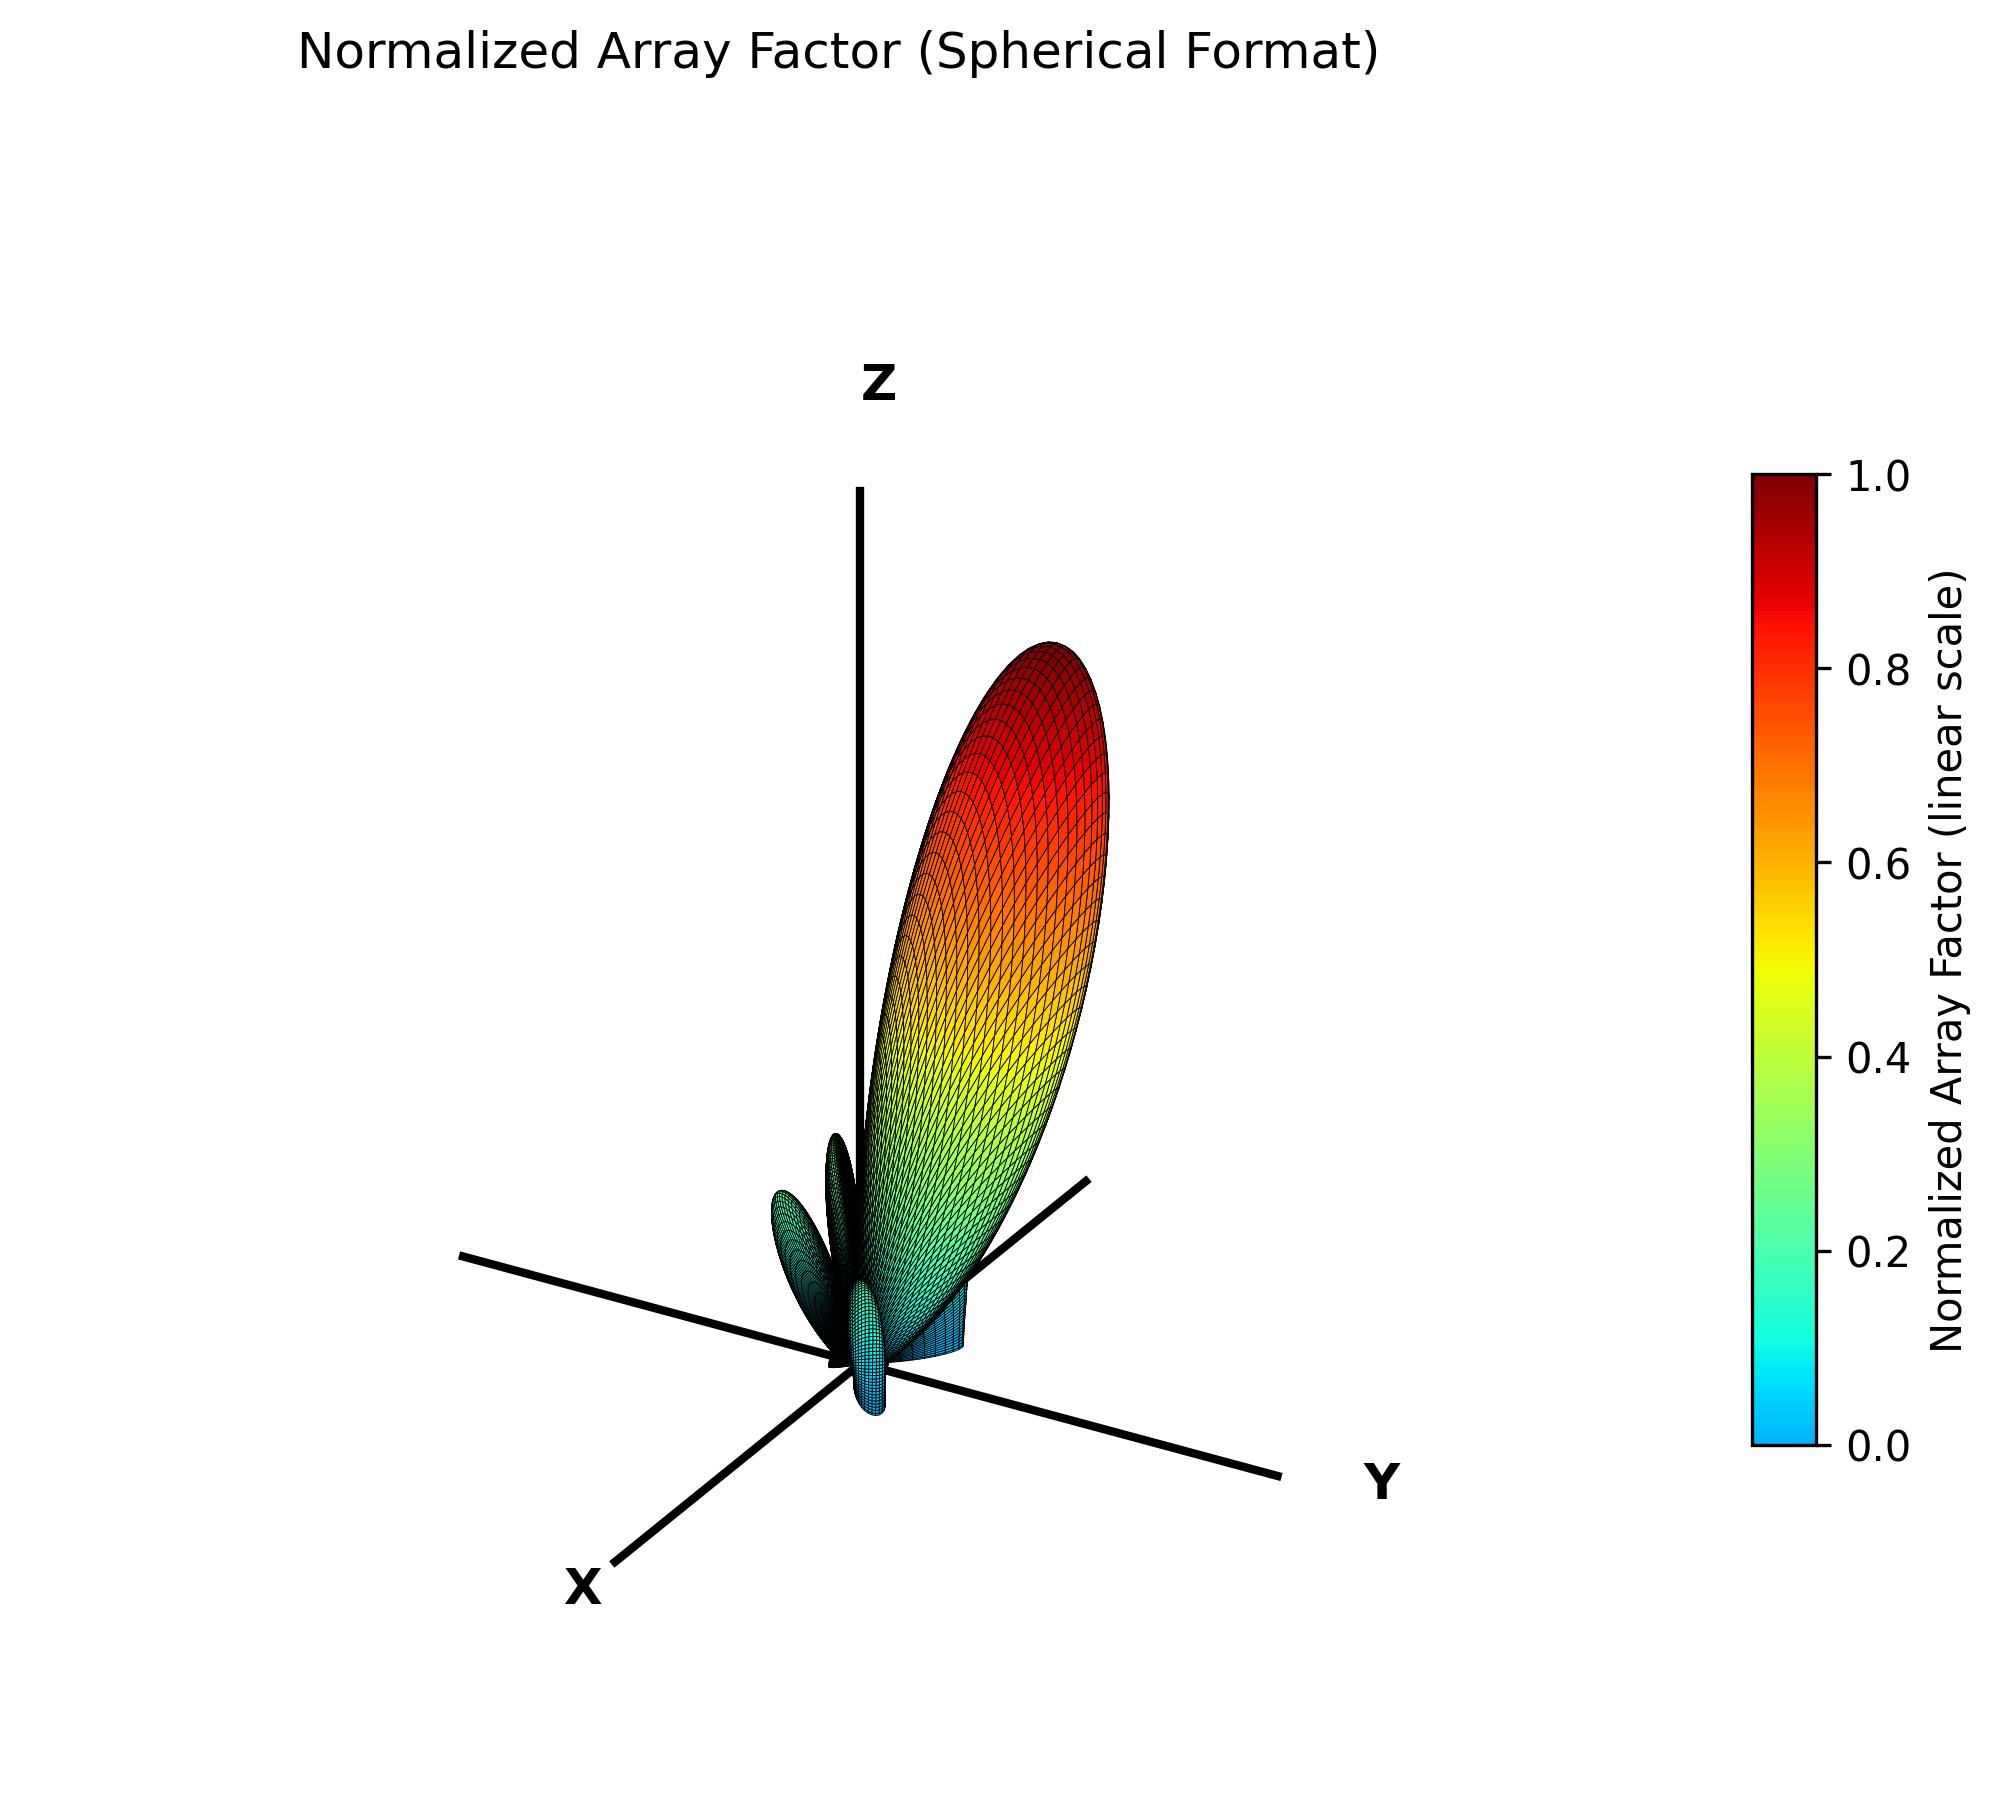
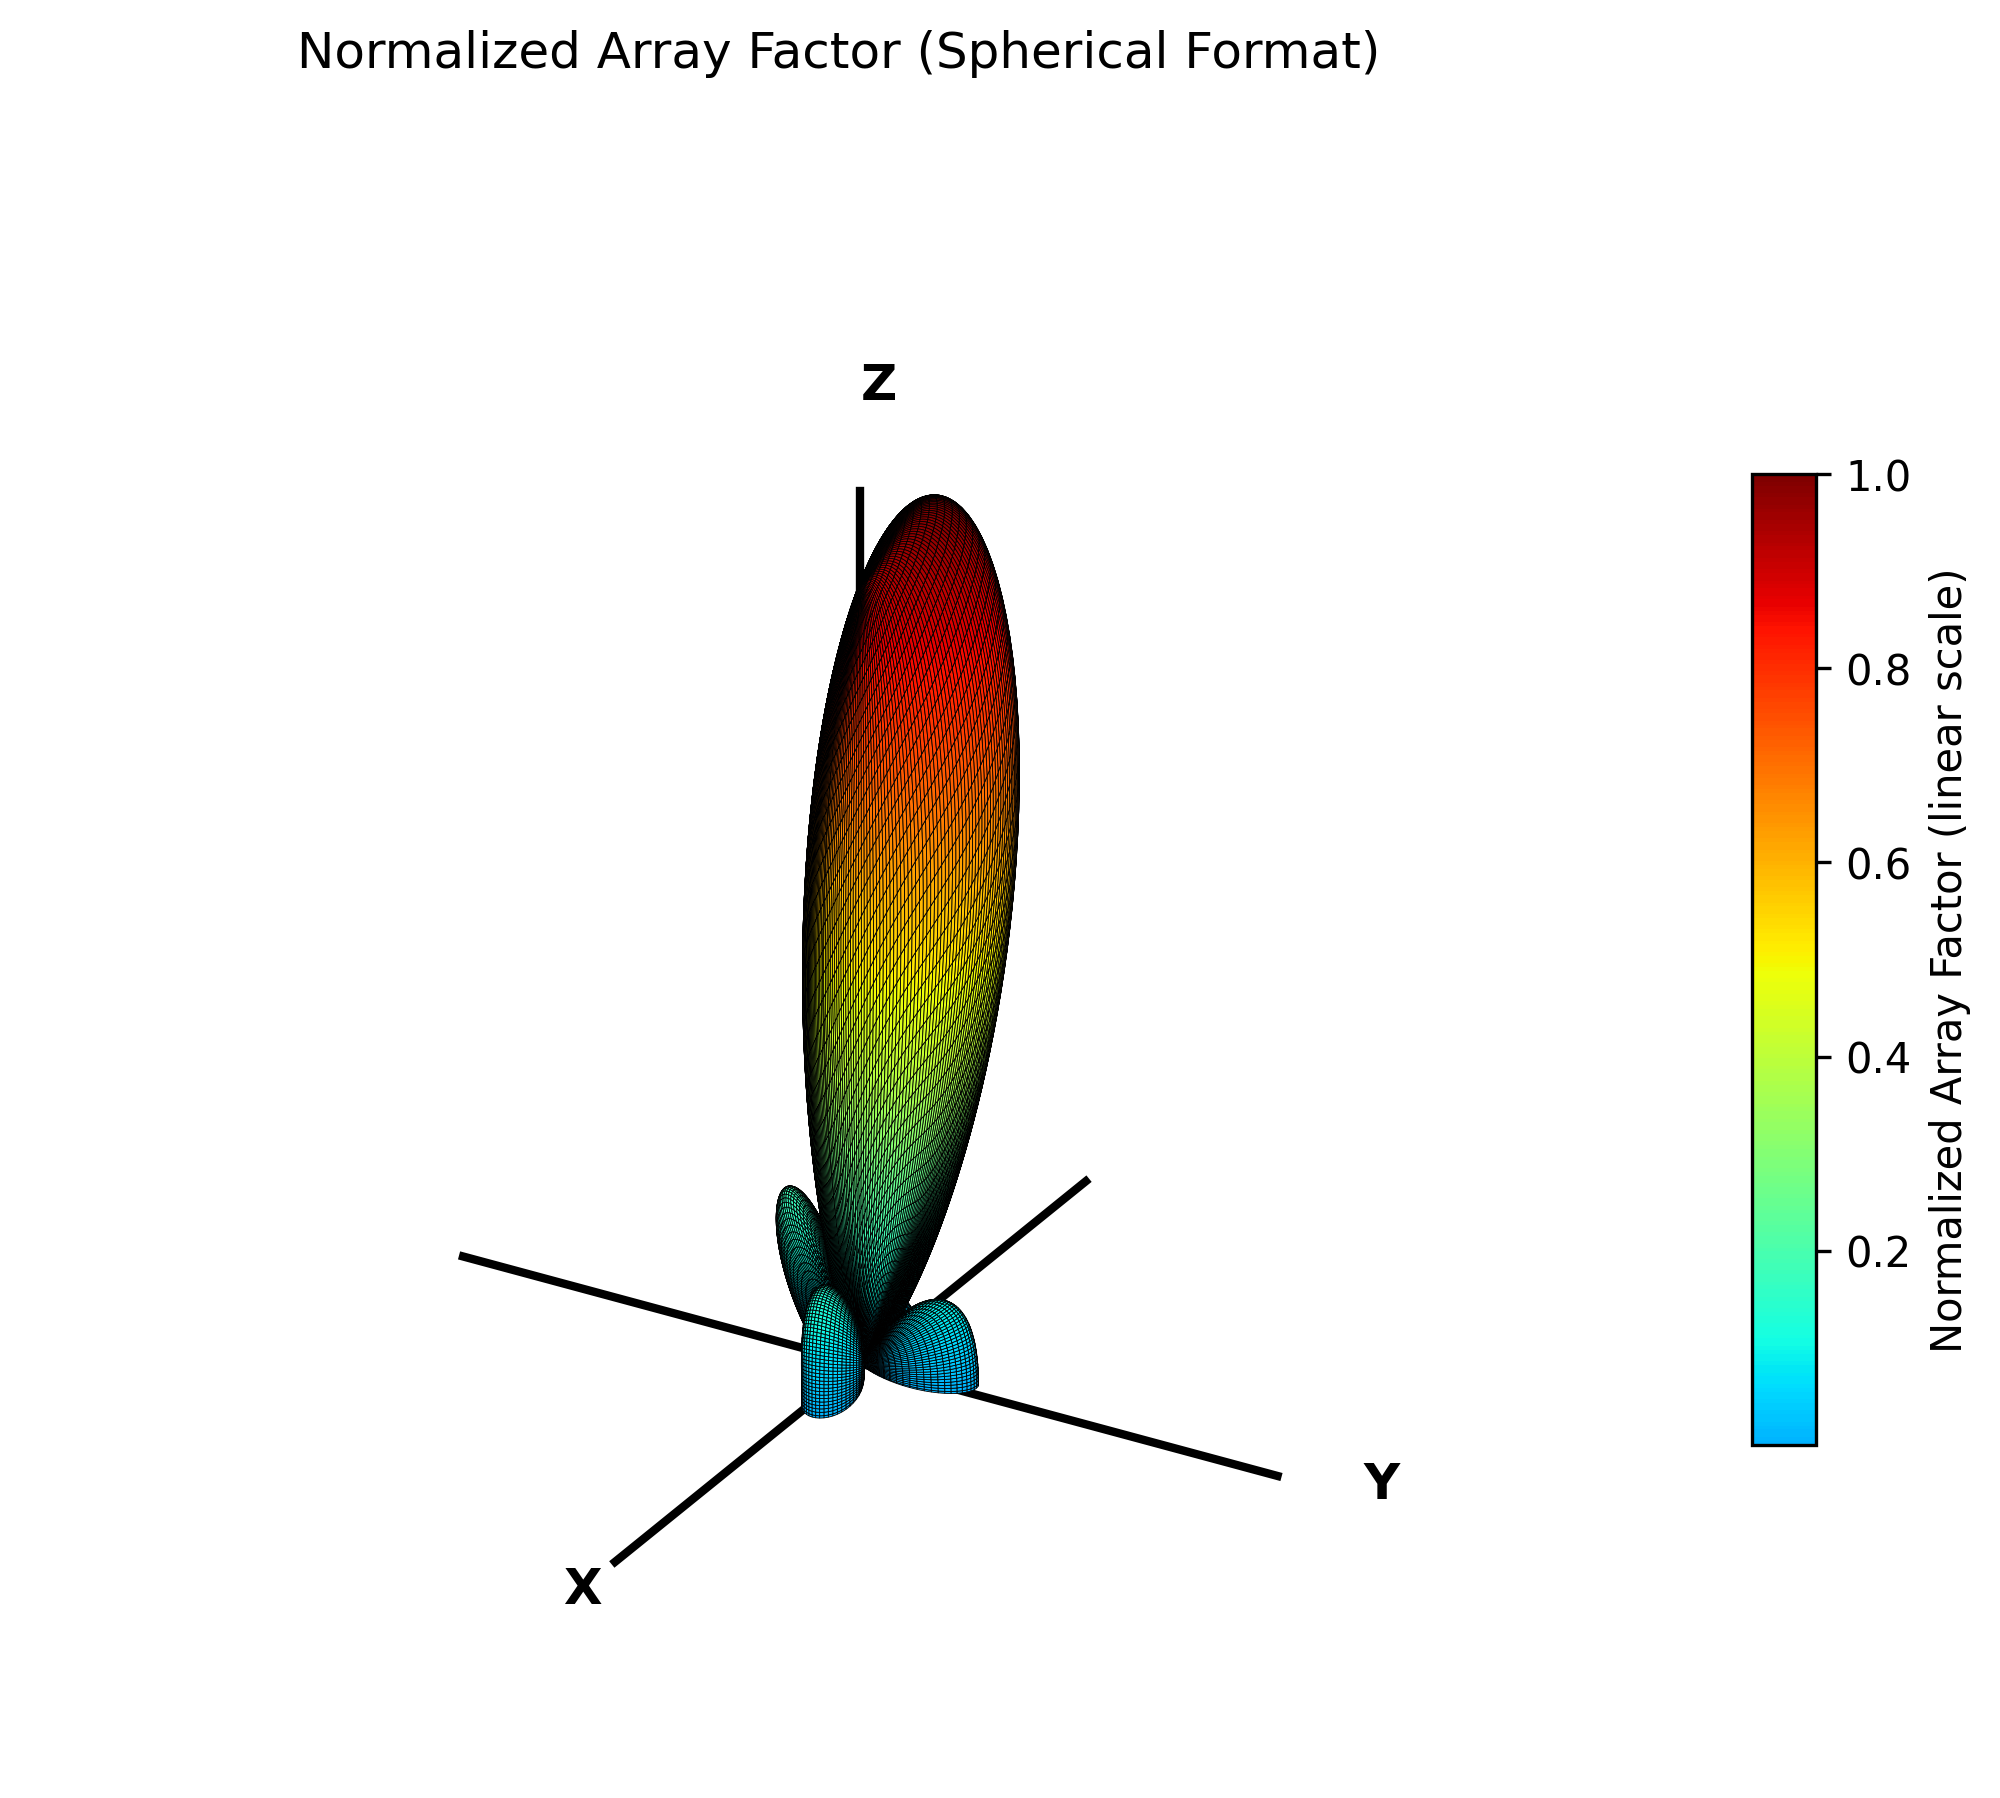
added default rx grid of phases for each angle 256 total

Changed region(s): [[0.372, 0.2803, 0.558, 0.8098], [0.93, 0.7786, 0.961, 0.8098]]

diff --git a/GUI/AF_Calc.py b/GUI/AF_Calc.py
@@ -18,11 +18,10 @@ import numpy as np
 import matplotlib.pyplot as plt
 from matplotlib import cm
 from matplotlib.colors import ListedColormap
-from mpl_toolkits.mplot3d import Axes3D
 #config file contains some useful constants that we'll make use of 
 from config import *
-
-def find_phase_shift(theta_0: float, phi_0: float, dx: float, dy: float)->tuple:
+DEFAULT_RX_GRID = None
+def find_betas(theta_0: float, phi_0: float, dx: float, dy: float)->tuple:
     '''
     Calculate the phase shifts required to steer in certain direction
 
@@ -33,9 +32,9 @@ def find_phase_shift(theta_0: float, phi_0: float, dx: float, dy: float)->tuple:
     phi_0: float
         azimuthal steer direction in degrees
     dx: float
-        horizontal spacing between elements (fraction of wavelength)
-    dx: float
-        vertical spacing between elements (fraction of wavelength)
+        x spacing between elements (fraction of wavelength)
+    dy: float
+        y spacing between elements (fraction of wavelength)
     Returns
     -------
     (beta_x, beta_y): float tuple
@@ -49,6 +48,26 @@ def find_phase_shift(theta_0: float, phi_0: float, dx: float, dy: float)->tuple:
     beta_Y = -2 * np.pi * dy * np.sin(theta_0) * np.sin(phi_0)
 
     return beta_X, beta_Y
+
+
+def get_phase_shifts(beta_x: float, beta_y: float)->np.ndarray:
+    '''
+    Get the phase shifts to apply to each element in a N element array
+    Parameter:
+        beta_x(float):
+        beta_y(float):
+    Returns:
+        1D array of phases in degrees size =NUM_ELEMENTS defined in config fil
+    '''
+    #create index grids
+    M, N = np.meshgrid(np.arange(NSIDE), np.arange(NSIDE), indexing='ij')
+    #compute phase shifts for each element
+    phases = (beta_x * M + beta_y * N)
+    phases = np.degrees(phases) % 360
+    return phases.flatten()
+
+
+
 
 def dispAF(dx: float, dy: float, beta_x: float, beta_y: float, disp:bool):
     '''
@@ -76,23 +95,26 @@ def dispAF(dx: float, dy: float, beta_x: float, beta_y: float, disp:bool):
     theta = np.linspace(0, np.pi/2, 300)
     phi = np.linspace(0, np.pi * 2, 600)
     THETA, PHI = np.meshgrid(theta, phi)
+    # used multiple times 
+    sinTH =np.sin(THETA) 
+    cosPH = np.cos(PHI)
+    sinPH = np.sin(PHI)
     
     # Define x part of array factor 
     Nside = int(np.sqrt(NUM_ELEMENTS))
-    Sxm = np.zeros_like(THETA, dtype=complex) 
-    for m in range(Nside):
-        Sxm += np.exp(1j * m * (2*np.pi*dx*np.sin(THETA)*np.cos(PHI) + beta_x)) 
+    m_idx = np.arange(Nside).reshape(-1, 1, 1)
+    Sxm = np.sum(np.exp(1j * m_idx * (2*np.pi*dx*sinTH*cosPH + beta_x)), axis=0)
+      
     # Define y part of array factor 
-    Syn = np.zeros_like(THETA, dtype=complex) 
-    for n in range(Nside): 
-        Syn += np.exp(1j*n*(2*np.pi*dy*np.sin(THETA)*np.sin(PHI) + beta_y)) 
+    n_idx = np.arange(Nside).reshape(-1, 1, 1)
+    Syn = np.sum(np.exp(1j * n_idx * (2*np.pi*dy*sinTH*sinPH + beta_y)), axis=0)
 
     AF = Sxm * Syn
     AF_mag = np.abs(AF) 
     AF_mag_norm = AF_mag/np.max(AF_mag)
     #convert to cartesian coords
-    X = AF_mag_norm * np.sin(THETA) * np.cos(PHI)
-    Y = AF_mag_norm * np.sin(THETA) * np.sin(PHI)
+    X = AF_mag_norm * sinTH * cosPH
+    Y = AF_mag_norm * sinTH * sinPH
     Z = AF_mag_norm * np.cos(THETA)
     fig = plt.figure(figsize=(9,7))
     ax = fig.add_subplot(111, projection='3d')  
@@ -143,10 +165,10 @@ def main():
     dy = float(input('enter the vertical spacing dy in terms of wavelengths: '))
     desired_phi = float(input('enter the azimuthal steering direction (degrees): '))
     desired_theta = float(input('enter the elevation steering direction (degrees): '))
-    beta_x, beta_y = find_phase_shift(desired_theta, desired_phi, dx, dy)
+    beta_x, beta_y = find_betas(desired_theta, desired_phi, dx, dy)
     dispAF(dx, dy, beta_x, beta_y,disp=True)
 
-def runAF_Calc(dx: float,dy: float,theta: float,phi: float)->tuple:
+def runAF_Calc(dx: float,dy: float,theta: float,phi: float)->np.ndarray:
     '''
     run the array factor calculation to get progressive phase shifts
     and generate plot
@@ -159,12 +181,13 @@ def runAF_Calc(dx: float,dy: float,theta: float,phi: float)->tuple:
             desired elevaiton steering angle
         phi:
             desired azimuthal steering angle
-    Returns: (betaX, betaY)
+    Returns: phases an array of the phases that go to each element 
     '''
-    betaX,betaY = find_phase_shift(theta, phi, dx,dy) 
+    betaX,betaY = find_betas(theta, phi, dx,dy) 
+    phases = get_phase_shifts(betaX, betaY)
     dispAF(dx,dy,betaX,betaY,disp=False)
     #return betax and y to be used in actually shifting the array
-    return betaX, betaY
+    return phases 
     
 #run that shit
 if __name__ == '__main__':

diff --git a/GUI/main.py b/GUI/main.py
@@ -27,9 +27,10 @@
 import time, serial, struct, serial.tools.list_ports,json
 from nicegui import ui
 import numpy as np 
-from config import *
+from config import BAUDRATE, DX, DY  
 import asyncio
-from AF_Calc import *
+from AF_Calc import runAF_Calc
+from create_default_rx_grid import DEFAULT_RX_GRID
 
 #global serial handler
 ser = None
@@ -430,8 +431,8 @@ def beam_page():
         
 
             with ui.row().classes('w-full justify-center items-center'):
-                dx = ui.number(label = 'dx (λ)', value=0.5, min=0.1).style('width:20%')
-                dy = ui.number(label = 'dy (λ)', value=0.5, min=0.1).style('width:20%')
+                dx = ui.number(label = 'dx (λ)', value=DX, min=0.1).style('width:20%')
+                dy = ui.number(label = 'dy (λ)', value=DY, min=0.1).style('width:20%')
                 theta = ui.number(label = 'Theta (degrees)', value=0, min = 0, max=90).style('width:20%')
                 phi = ui.number(label = 'Phi (degrees)', value=0, min = 0, max = 360).style('width:20%')
                  
@@ -449,34 +450,14 @@ def beam_page():
                 to show relative magnitudes at different angles
                 '''
                 #show the user what the expected beam pattern
-                beta_x, beta_y = runAF_Calc(dx.value,dy.value,theta.value,phi.value)
+                phases = runAF_Calc(dx.value,dy.value,theta.value,phi.value)
                 
                 image_container.clear() #remove any existing images
                 with image_container:
                     ui.image('media/AF.png').style('width:65%;').force_reload()
-
-                '''  
-                recall array elements are like
-                1 2 3 4
-                5 6 7 8
-                9 10 11 12
-                13 14 15 16
-                where x goes down the rows and y goes across the columns
-                ---->y
-                |
-                |
-                |
-                x
-                ''' 
-                phases = np.zeros(16)
-                for M in range(4):
-                    #iterate across a row with constant dx*M offset (0-3)
-                    for N in range(4):
-                        #iterate across columns with constant dy*N offset (0-3)
-                        #example N = 3 M = 2 element address = 3 +4*2 = 11 ->index of 10th   
-                        phases[N + 4*M] = (np.rad2deg(beta_x) * M + np.rad2deg(beta_y) * N) % 360
                 try: 
                     send_phases(phases)
+                    #TODO add SDR FUNCTIONALITY and Plotting
                 except Exception as e:
                     ui.notify(f'Failed to send phases: {e}', color = 'red')
                 else:
@@ -492,9 +473,21 @@ def beam_page():
             '''
             Scan through all combinations of theta and phi then report the direction
             of arival as a magnitude plot with a peak in the best link direction 
-            '''
-            pass
+            Uses a precomputed search grid and iterates through it
             
+            Creates and displays 2 plots:
+                Relative gain? vs theta
+                Relative gain? vs phi
+            '''
+            for phases in DEFAULT_RX_GRID:
+                #recal DEFAULT_RX_GRID has entries like
+                #we want to send the phase then record the relative amplitude 
+                send_phases(phases)
+                #TODO record relative gain with PLUTO SDR and saved
+            #TODO Plot 
+            #mabe a heat map would be nice with theta on one 
+            #axes and theta and phi the other and a hot spot on the best angle
+             
         # Back button in the top-left
         ui.button('⬅ Back', on_click=ui.navigate.back)
         with ui.column().classes('w-full'):
@@ -512,6 +505,9 @@ def beam_page():
             with ui.row().classes('w-full justify-center items-center'): 
                 ui.label('Place the transmitting antenna somewhere within line\
                  of sight of the receiving array, then press start when you are ready to scan')\
+                .classes('text-base text-gray-600 text-center')
+            with ui.row().classes('w-full justify-center items-center'): 
+                ui.label('The coefficients are precomputed for the default array')\
                 .classes('text-base text-gray-600 text-center')
                 ui.button('Start', on_click=Scan_Beam)
         

diff --git a/GUI/create_default_rx_grid.py b/GUI/create_default_rx_grid.py
@@ -1,0 +1,37 @@
+from config import theta_range, phi_range, nside, dx,dy
+import numpy as np
+def create_default_rx_search_grid(dx: float, dy: float)->none:
+    '''
+    compute a list of phase shift lists for each search loaction for rx doa est.
+    originally was a nested for loop but vectorized it for speed
+    args:
+        dx,dy(float): element spacing
+    returns:
+    phases (np.ndarray): vshape = (len(theta_range)*len(phi_range), num_elements)
+    each row = num_elements phase values
+    '''
+    theta = np.deg2rad(theta_range)
+    phi = np.deg2rad(phi_range)
+    theta,phi = np.meshgrid(theta, phi, indexing='ij')
+    #compute betas 
+    beta_x = -2 * np.pi * dx * np.sin(theta) * np.cos(phi) 
+    beta_y = -2 * np.pi * dy * np.sin(theta) * np.sin(phi)
+    #element indexing
+    nx_idx = np.arange(nside)
+    ny_idx = np.arange(nside)
+
+    # compute total phase shift (broadcasted)
+    # shape: (nside, nside, len(theta), len(phi))
+    total_phase = (nx_idx[:, none, none, none] * beta_x[none,none, :, :] +
+        ny_idx[none, :, none, none] * beta_y[none, none, none, :])
+
+    # convert to degrees and wrap to 0–360
+    phases_deg = np.degrees(total_phase) % 360
+    return phases_deg.reshape(nside * nside, -1).t
+
+default_rx_grid = create_default_rx_search_grid(dx,dy)
+#debug
+'''
+for i, phase_row in enumerate(default_rx_grid):
+    print(f'Direction {i}: {phase_row}')
+'''

diff --git a/GUI/PLUTO.py b/GUI/PLUTO.py
@@ -1,0 +1,45 @@
+import adi
+import numpy as np
+from config import FREQ, BASE_BAND, SAMP_RATE, BUFFER_SIZE
+
+# --- Connect to PlutoSDR ---
+sdr = adi.Pluto("ip:192.168.2.1")
+
+# --- TX setup ---
+sdr.tx_lo = int(FREQ)                    # RF carrier in Hz
+sdr.tx_sample_rate = int(SAMP_RATE)
+sdr.tx_rf_bandwidth = int(SAMP_RATE)     # match baseband BW
+sdr.tx_hardwaregain_chan0 = -10          # adjust amplitude to avoid clipping
+
+# --- RX setup ---
+sdr.rx_lo = int(FREQ)                     # RF carrier in Hz
+sdr.rx_sample_rate = int(SAMP_RATE)
+sdr.rx_rf_bandwidth = int(SAMP_RATE)
+sdr.rx_buffer_size = BUFFER_SIZE
+sdr.gain_control_mode_chan0 = "manual"
+sdr.rx_hardwaregain_chan0 = 0             # adjust as needed
+
+# --- Tone generator ---
+BURST_DURATION = 0.001 #seconds
+num_samples = int(BURST_DURATION * SAMP_RATE)
+TONE = 0.5 * np.exp(1j*2*np.pi*BASE_BAND*np.arange(num_samples)/SAMP_RATE)
+# --- Send burst and measure energy ---
+def get_energy() -> float:
+    """
+    Transmit BASE_BAND tone burst and return received energy.
+    """
+    # Transmit
+    sdr.tx(TONE)
+    
+    # Receive
+    rx_data = sdr.rx(len(TONE))
+    
+    # Compute energy
+    energy = np.sum(np.abs(TONE)**2)
+    
+    return energy
+
+# --- Example usage ---
+if __name__ == "__main__":
+    energy = get_energy()
+    print(f'Received energy: {energy:.2f}')

diff --git a/GUI/config.py b/GUI/config.py
@@ -1,5 +1,25 @@
+import numpy as np
 #contains constants used throughout the program
 BAUDRATE = 115200 
 C = 299792458 #m/s 
 NUM_ELEMENTS = 16
+NSIDE = 4
 
+#RX grid 
+#default element spacing in terms of lambda 
+DX =0.35 
+DY =0.41
+#We're limited to the resolution of our array, the half power beam width is rather large
+num_theta = 8
+num_phi = 32
+#8 values
+THETA_RANGE = np.linspace(0,45, num_theta)
+#32 values
+PHI_RANGE = np.linspace(0, 360, num_phi, endpoint=False)
+#Total of 256 locations to scan through
+
+#PLUTO config
+FREQ = int(2.1e9)
+BASE_BAND = 100e3
+SAMP_RATE = 10e6  # Hz
+BUFFER_SIZE = 1024
